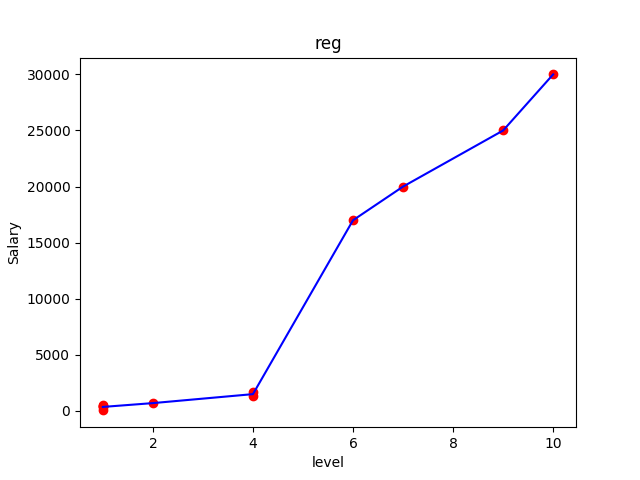
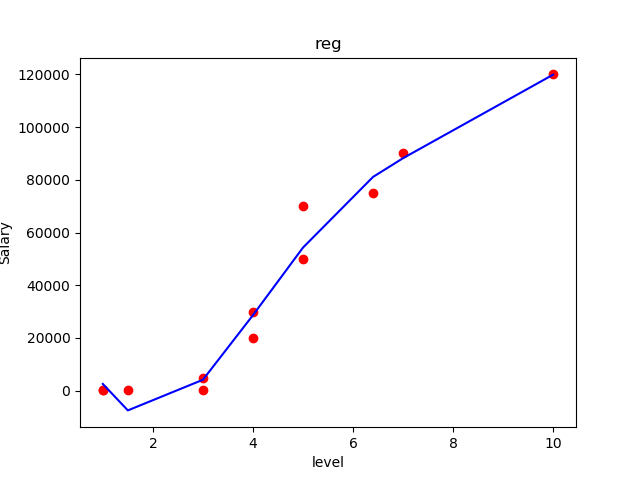
added post experience functionality and messed around with regression degree

diff --git a/howdy/templates/index.html b/howdy/templates/index.html
@@ -41,6 +41,8 @@ Add entry: <br/>
     </select>
     </br>
     Salary: <input type="text" name="salary"/><br/>
+    How long have you been working in your current position?: <input type="text" name="worked"/><br/>
+    What is the average time to advance from your position?: <input type="text" name="averageTime"/><br/>
     <input type="submit" value="POST"/>
 </form>
 

diff --git a/howdy/views.py b/howdy/views.py
@@ -15,46 +15,63 @@ from howdy.models import Experience
 
 class wju(View):
 
-        post_list = [None] * Experience.objects.count()
-        salary_list = [None] * Experience.objects.count()  
+        def dataInit(self):
+                post_list = [None] * Experience.objects.count()
+                salary_list = [None] * Experience.objects.count()  
 
-        exp_set = Experience.objects.filter(post__isnull=False)
+                exp_set = Experience.objects.filter(post__isnull=False)
 
-        list_increment = 0
+                list_increment = 0
 
-        for exp in exp_set:
-                post_list[list_increment] = float(exp.post)
-                salary_list[list_increment] = float(exp.salary)
+                for exp in exp_set:
+                        post_list[list_increment] = float(exp.post)
+                        salary_list[list_increment] = float(exp.salary)
 
-                list_increment=list_increment+1
+                        list_increment=list_increment+1
+
+                global X
+                global y
+
+                X = np.array(post_list).reshape(-1,1)
+                y = np.array(salary_list).reshape(-1,1)
+
+                print(X)
+                print(y)
                         
-        X = np.array(post_list).reshape(-1,1)
-        y = np.array(salary_list).reshape(-1,1)
+                from sklearn.model_selection import train_test_split
+                X_train, X_test, y_train, y_test = train_test_split(X, y, test_size = 1/3, random_state = 0)
+                                
+                print(X_train)
+                print(y_train)
 
-        print(X)
-        print(y)
-                
-        from sklearn.model_selection import train_test_split
-        X_train, X_test, y_train, y_test = train_test_split(X, y, test_size = 1/3, random_state = 0)
-                        
-        print(X_train)
-        print(y_train)
+                # Fitting Linear Regression to the dataset
+                from sklearn.linear_model import LinearRegression
 
-        # Fitting Linear Regression to the dataset
-        from sklearn.linear_model import LinearRegression
-        regressor = LinearRegression()
-        regressor.fit(X_train, y_train)
+                global regressor
 
-        # Fitting Polynomial Regression to the dataset
-        from sklearn.preprocessing import PolynomialFeatures
-        regressor = PolynomialFeatures(degree = Experience.objects.count())
-        X_poly = regressor.fit_transform(X)
-        regressor.fit(X_poly, y)
-        poly_regressor = LinearRegression()
-        poly_regressor.fit(X_poly, y)
+                regressor = LinearRegression()
+                regressor.fit(X_train, y_train)
 
+                # Fitting Polynomial Regression to the dataset
+                from sklearn.preprocessing import PolynomialFeatures
+                regressor = PolynomialFeatures(degree = 4)
+                # regressor = PolynomialFeatures(degree = Experience.objects.count())
+                X_poly = regressor.fit_transform(X)
+                regressor.fit(X_poly, y)
+
+                global poly_regressor
+
+                poly_regressor = LinearRegression()
+                poly_regressor.fit(X_poly, y)
+
+        # dataInit(self)
 
         def get(self, request, *args, **kwargs):
+                self.dataInit()
+
+                for i in range (101):
+                        print(float(poly_regressor.predict(regressor.fit_transform(np.array([i/10]).reshape(-1, 1)))))
+
                 experience_list = Experience.objects.all()
                 context = {'experience_list': experience_list}
                 return render(request, "index.html", context=context)
@@ -62,8 +79,13 @@ class wju(View):
         def post(self, request, *args, **kwargs):
                 if request.POST.get('post') and request.POST.get('salary'):
                         post=Experience()
-                        post.post= request.POST.get('post')
+
+                        worked= request.POST.get('worked')
+                        averageTime= request.POST.get('averageTime')
+
+                        post.post= int(request.POST.get('post')) + int(worked)/int(averageTime)
                         post.salary= request.POST.get('salary')
+                
                         post.save()
                         return redirect('/') 
                 
@@ -78,23 +100,27 @@ class wju(View):
                         return redirect('/')      
 
                 if request.POST.get('import'):
+                        self.dataInit()
 
                         plt.clf()
 
-                        plt.scatter(self.X, self.y, color = 'red')
-                        plt.plot(np.sort(self.X, axis=0), self.poly_regressor.predict(self.regressor.fit_transform(np.sort(self.X, axis=0))), color = 'blue')
+                        plt.scatter(X, y, color = 'red')
+                        plt.plot(np.sort(X, axis=0), poly_regressor.predict(regressor.fit_transform(np.sort(X, axis=0))), color = 'blue')
                         plt.title('reg')
                         plt.xlabel('level')
                         plt.ylabel('Salary')
                         plt.savefig('howdy/static/howdy/foo.png')
 
-                        print(self.regressor)
-                        print(self.poly_regressor)
+                        print(regressor)
+                        print(poly_regressor)
 
                         return redirect('/')  
 
                 if request.POST.get('pred_query'):
+                        self.dataInit()
+
                         query = float(request.POST.get('pred_query'))
-                        pred = float(self.poly_regressor.predict(self.regressor.fit_transform(np.array([query]).reshape(-1, 1))))
+
+                        pred = float(poly_regressor.predict(regressor.fit_transform(np.array([query]).reshape(-1, 1))))
                         context = {'experience_list': Experience.objects.all(), 'pred': pred}
                         return render(request, 'index.html', context)
